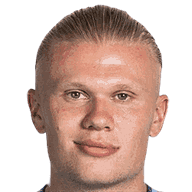
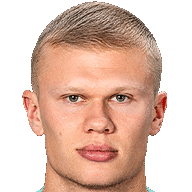
added 11

diff --git a/public/players-image/index.ts b/public/players-image/index.ts
@@ -16,6 +16,14 @@ export const playerImages = [
     value: "gianluigi-donnarumma",
   },
   {
+    name: "Gerónimo Rulli",
+    prefferedName: "Rulli",
+    verticalImage: "/players-image/geronimo-rulli-vertical.webp",
+    roundImage: "/players-image/geronimo-rulli-round.png",
+    alt: "Gerónimo Rulli",
+    value: "geronimo-rulli",
+  },
+  {
     name: "Matheus Nunes",
     prefferedName: "Nunes",
     verticalImage: "/players-image/matheus-nunes-vertical.webp",
@@ -240,14 +248,6 @@ export const playerImages = [
     value: "yan-diomande",
   },
   {
-    name: "Ayyoub Bouaddi",
-    prefferedName: "Bouaddi",
-    verticalImage: "/players-image/bouaddi-vertical.webp",
-    roundImage: "/players-image/bouaddi-round.png",
-    alt: "Ayyoub Bouaddi",
-    value: "ayyoub-bouaddi",
-  },
-  {
     name: "Divin Mubama",
     prefferedName: "Mubama",
     verticalImage: "/players-image/mubama-vertical.webp",
@@ -289,18 +289,34 @@ export const playerImages = [
   },
   {
     name: "Enzo Fernández",
-    prefferedName: "Enzo Fernandez",
-    verticalImage: "/players-image/enzo-fvertical.webp",
+    prefferedName: "Enzo F",
+    verticalImage: "/players-image/enzo-f-vertical.png",
     roundImage: "/players-image/enzo-f-round.png",
     alt: "Enzo Fernández",
     value: "enzo-fernandez",
   },
-    {
+  {
     name: "Ayyoub Bouaddi",
     prefferedName: "Bouaddi",
-    verticalImage: "/players-image/IMG_1050.webp",
-    roundImage: "/players-image/IMG_1049.png",
+    verticalImage: "/players-image/ayyoub-bouaddi-vertical.webp",
+    roundImage: "/players-image/ayyoub-bouaddi-round.png",
     alt: "Ayyoub Bouaddi",
     value: "ayyoub-bouaddi",
+  },
+  {
+    name: "Allan",
+    prefferedName: "Allan",
+    verticalImage: "/players-image/allan-vertical.webp",
+    roundImage: "/players-image/allan-round.png",
+    alt: "Allan",
+    value: "allan",
+  },
+  {
+    name: "Iliman Ndiaye",
+    prefferedName: "Ndiaye",
+    verticalImage: "/players-image/iliman-ndiaye-vertical.webp",
+    roundImage: "/players-image/iliman-ndiaye-round.png",
+    alt: "Iliman Ndiaye",
+    value: "iliman-ndiaye",
   },
 ];
